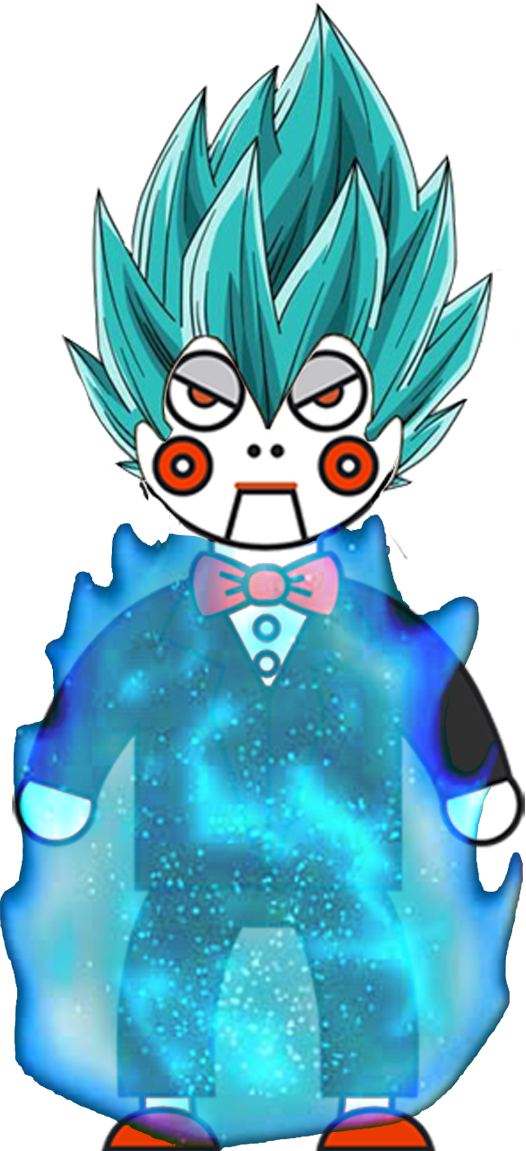
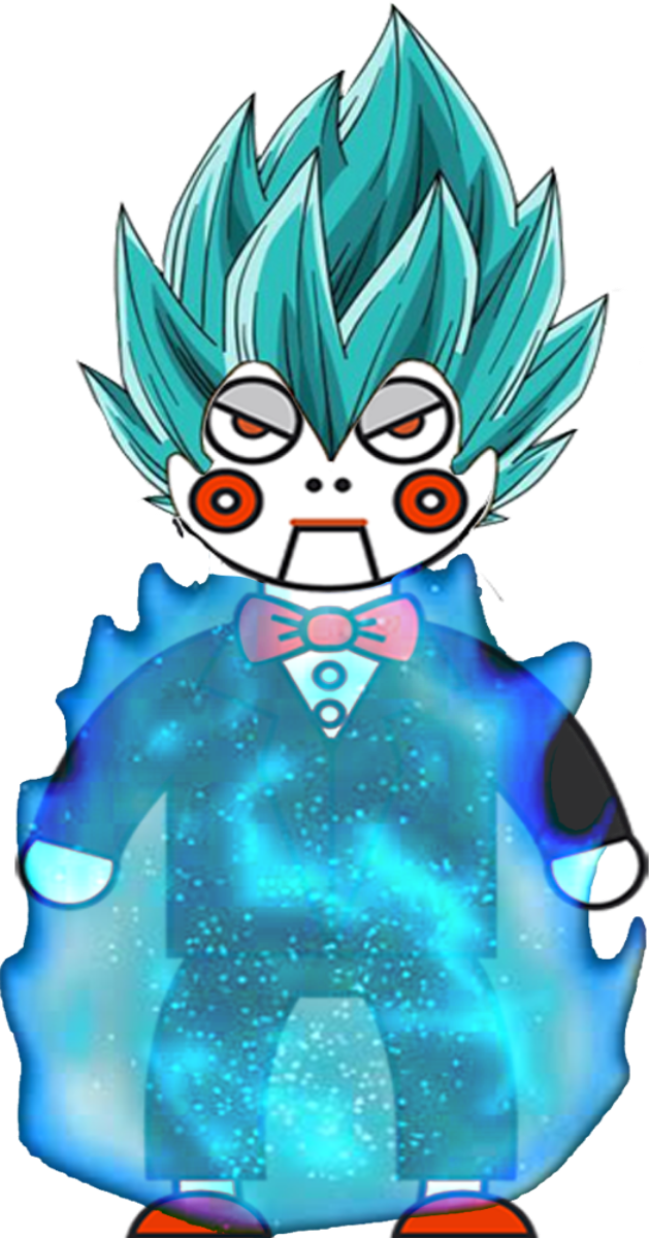
working

Changed region(s): [[0.73, 0.4561, 0.7605, 0.4865], [0.0913, 0.5778, 0.1217, 0.6082], [0.0, 0.8818, 0.0304, 0.9123]]

diff --git a/src/Controllers/levels/newWorld.java b/src/Controllers/levels/newWorld.java
@@ -179,11 +179,6 @@ public class newWorld implements World {
                 score = z[0];
             }
         }
-        if ((currentTime-startSpecial)/1000>2 && (currentTime-startSpecial)/1000<15 && specialModeSeconds) {
-            GameObject background1 = backGroundFactory.getBackGround(0,0,1200,600,"hi.png");
-            constantObjects.set(0,background1);
-            specialModeSeconds = false;
-        }
         if ((currentTime-startSpecial)/1000>15 && specialMode) {
             specialMode=false;
             constantObjects.set(0,storeBackground);
@@ -198,7 +193,7 @@ public class newWorld implements World {
         }
         if (time == 0)
             shelfhandler.throwPlates();
-        if(time_2==1500){shelfhandler.makeSpecialPlates();time_2=0;}
+        if(time_2==2000){shelfhandler.makeSpecialPlates();time_2=0;}
         it = removed.iterator();
         while (it.hasNext()) {
             constantObjects.remove(it.next());

diff --git a/src/View/Gui/Levels.java b/src/View/Gui/Levels.java
@@ -19,7 +19,7 @@ import javafx.stage.Stage;
 import java.util.Collections;
 
 public class Levels extends Application {
-    public static String clownPath="Clown/clown1.png";
+    public static String clownPath="Clown/clown5.png";
 
     public static void main(String[] args) {
         launch(args);
